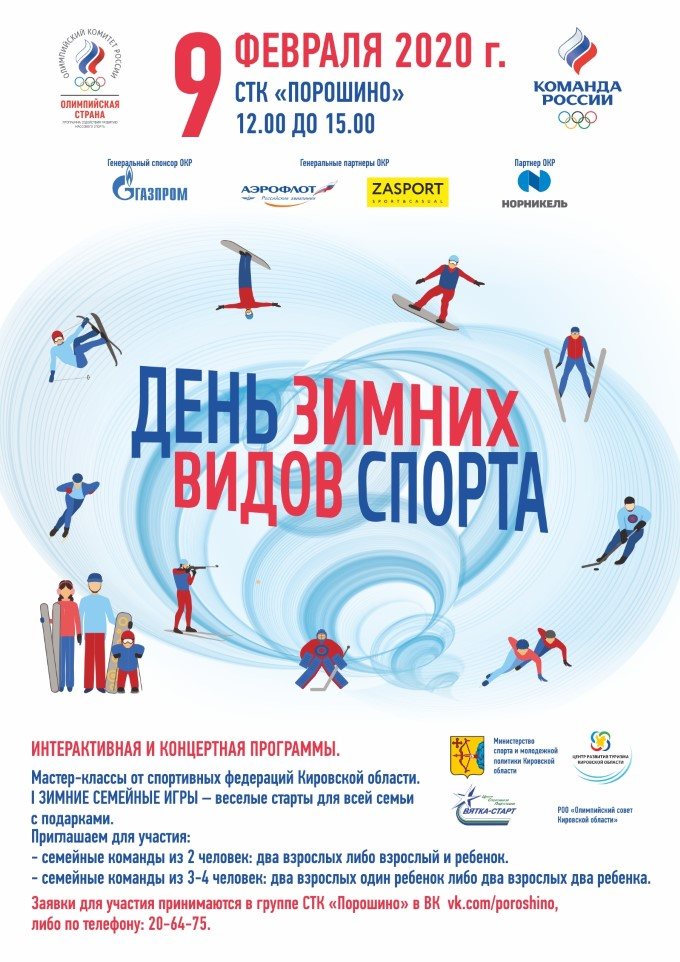
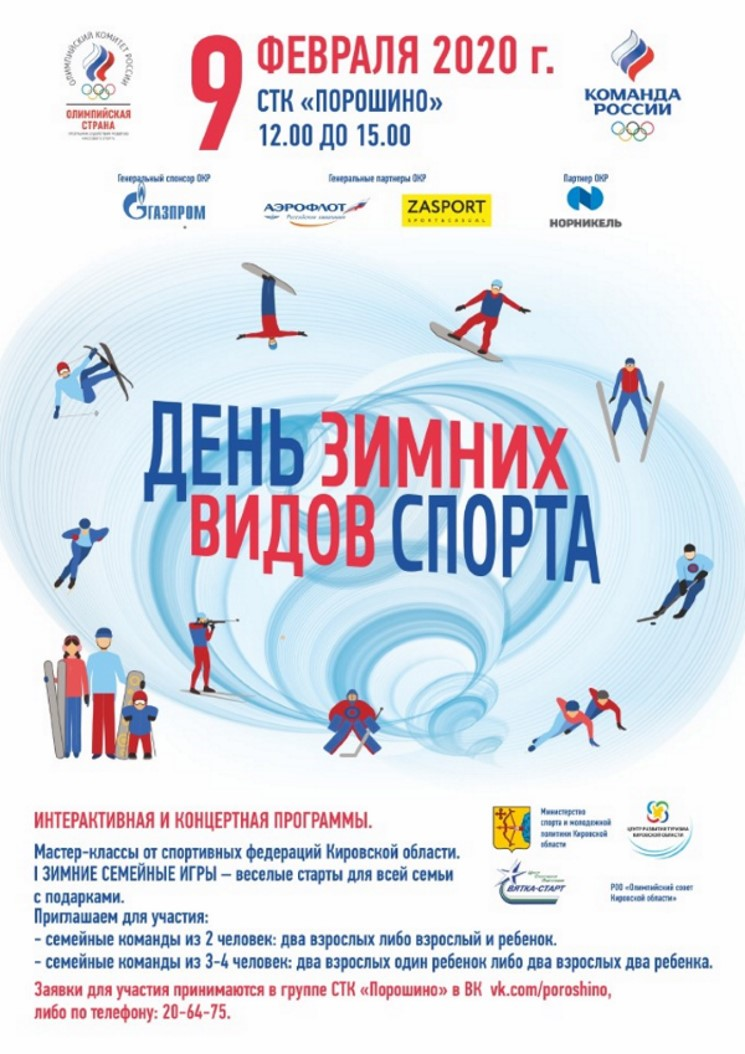
03

diff --git a/std.html b/std.html
@@ -39,12 +39,12 @@
 
 <center><p font style="color:red;font-size: 35px">Обьявления</p></center>
 <center><b title="Обьявление о наборе"><img src="pic/230919.jpg" alt=""/></b></center>
-
-
+<br/><br/>
+<p class="s2"><b>09 февраля 2020 года День зимних видов спорта </b>
+<a><img src="pic/030220.jpg" ></a>
 <br/><br/>
 <br/><br/>
-<br/><br/>
-<p class="s2"><b>05 октября 2019 года ВСЕРОССИЙСКИЙ ДЕНЬ ХОДЬБЫ </b>
+<p class="s2"><b>  05 октября 2019 года ВСЕРОССИЙСКИЙ ДЕНЬ ХОДЬБЫ </b>
 <center><a><img src="pic/01102019.jpg" ></a></center>
 <br/><br/>
 <p class="s3">05 октября 2019 года пройдет Всероссийский день ходьбы в рамках Всемирного дня ходьбы Международной ассоциации «Спорт для всех».
